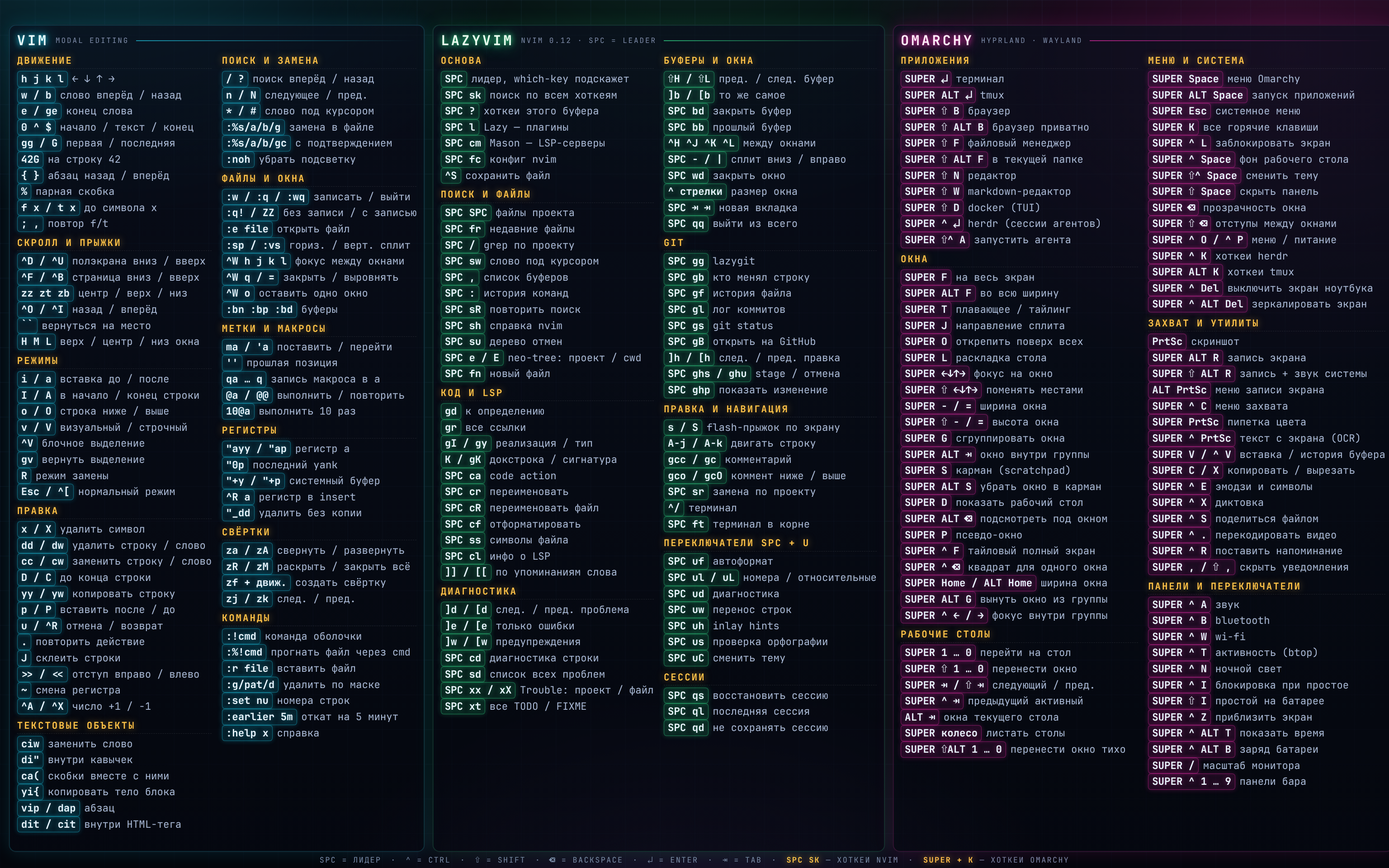
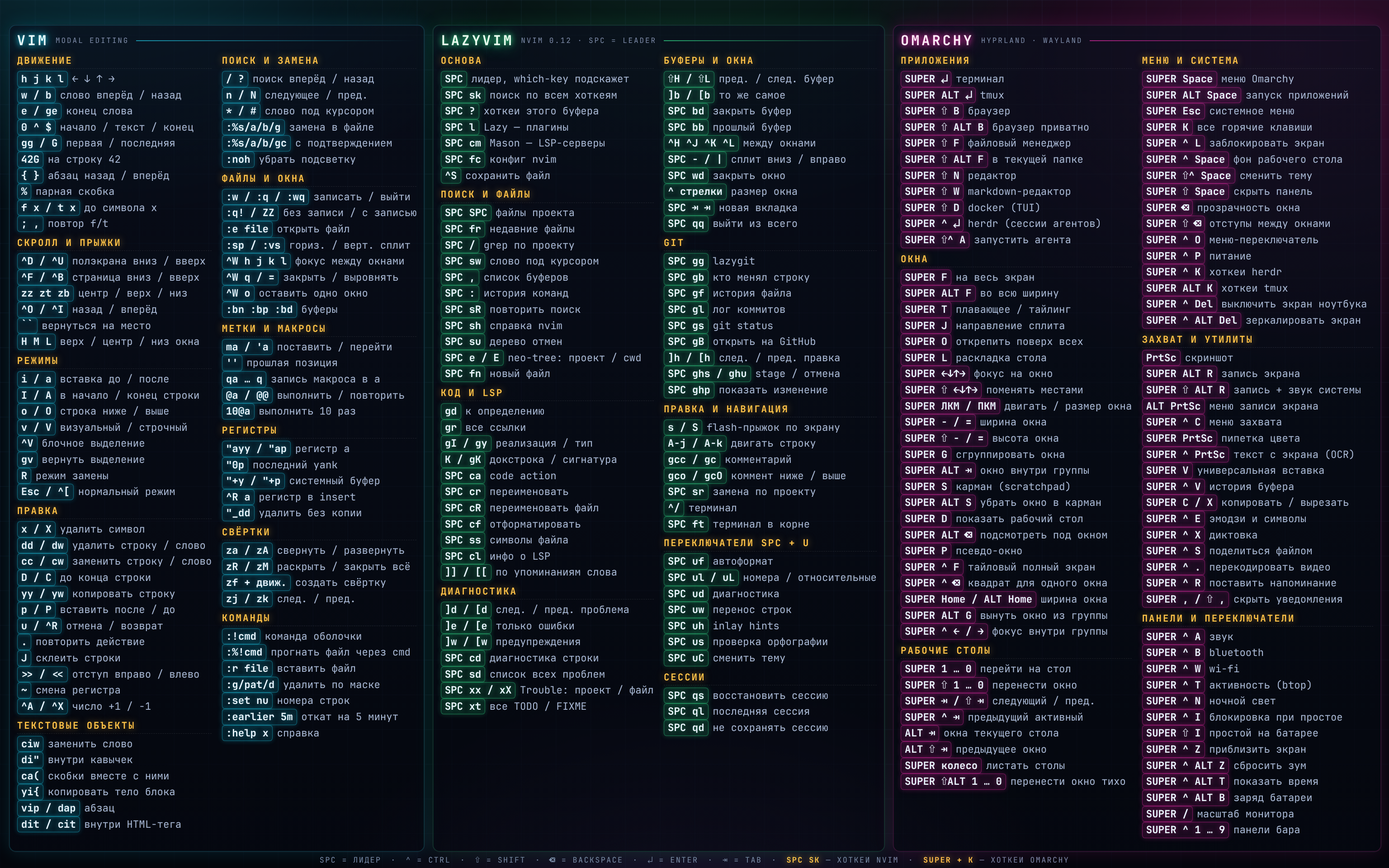
Add the mouse bindings and finish splitting the paired rows
"Перенести окно тихо" was already on the sheet, so the space went to the
gaps I found while re-checking against hyprctl binds:

- SUPER + drag with either mouse button moves and resizes a window. This was
  the largest omission on the sheet — a binding people reach for constantly
  and one that is invisible until someone tells you it exists.
- ALT+SHIFT+TAB. ALT+TAB was listed with no way back.
- SUPER+CTRL+ALT+Z resets the zoom that SUPER+CTRL+Z applies; half a pair is
  worse than neither half.

Also split the last two slash-combined rows, so the clipboard manager and the
power menu are findable by their own keys.

87 rows, which the README now records as the observed ceiling rather than the
earlier 78 — the real constraint is column height, so the note says to render
and look rather than trust a count.

Claude-Session: https://claude.ai/code/session_01QpofFwJW6hTbfjLHcKb433

Changed region(s): [[0.625, 0.0312, 1.0, 0.9688]]

diff --git a/wallpaper/vim-omarchy-neon.html b/wallpaper/vim-omarchy-neon.html
@@ -373,6 +373,7 @@
           <div class="row"><span class="k">SUPER L</span><span class="d">раскладка стола</span></div>
           <div class="row"><span class="k">SUPER ←↓↑→</span><span class="d">фокус на окно</span></div>
           <div class="row"><span class="k">SUPER ⇧ ←↓↑→</span><span class="d">поменять местами</span></div>
+          <div class="row"><span class="k">SUPER ЛКМ / ПКМ</span><span class="d">двигать / размер окна</span></div>
           <div class="row"><span class="k">SUPER − / =</span><span class="d">ширина окна</span></div>
           <div class="row"><span class="k">SUPER ⇧ − / =</span><span class="d">высота окна</span></div>
           <div class="row"><span class="k">SUPER G</span><span class="d">сгруппировать окна</span></div>
@@ -396,6 +397,7 @@
           <div class="row"><span class="k">SUPER ⇥ / ⇧ ⇥</span><span class="d">следующий / пред.</span></div>
           <div class="row"><span class="k">SUPER ^ ⇥</span><span class="d">предыдущий активный</span></div>
           <div class="row"><span class="k">ALT ⇥</span><span class="d">окна текущего стола</span></div>
+          <div class="row"><span class="k">ALT ⇧ ⇥</span><span class="d">предыдущее окно</span></div>
           <div class="row"><span class="k">SUPER колесо</span><span class="d">листать столы</span></div>
           <div class="row"><span class="k">SUPER ⇧ALT 1 … 0</span><span class="d">перенести окно тихо</span></div>
         </section>
@@ -412,7 +414,8 @@
           <div class="row"><span class="k">SUPER ⇧ Space</span><span class="d">скрыть панель</span></div>
           <div class="row"><span class="k">SUPER ⌫</span><span class="d">прозрачность окна</span></div>
           <div class="row"><span class="k">SUPER ⇧ ⌫</span><span class="d">отступы между окнами</span></div>
-          <div class="row"><span class="k">SUPER ^ O / ^ P</span><span class="d">меню / питание</span></div>
+          <div class="row"><span class="k">SUPER ^ O</span><span class="d">меню-переключатель</span></div>
+          <div class="row"><span class="k">SUPER ^ P</span><span class="d">питание</span></div>
           <div class="row"><span class="k">SUPER ^ K</span><span class="d">хоткеи herdr</span></div>
           <div class="row"><span class="k">SUPER ALT K</span><span class="d">хоткеи tmux</span></div>
           <div class="row"><span class="k">SUPER ^ Del</span><span class="d">выключить экран ноутбука</span></div>
@@ -428,7 +431,8 @@
           <div class="row"><span class="k">SUPER ^ C</span><span class="d">меню захвата</span></div>
           <div class="row"><span class="k">SUPER PrtSc</span><span class="d">пипетка цвета</span></div>
           <div class="row"><span class="k">SUPER ^ PrtSc</span><span class="d">текст с экрана (OCR)</span></div>
-          <div class="row"><span class="k">SUPER V / ^ V</span><span class="d">вставка / история буфера</span></div>
+          <div class="row"><span class="k">SUPER V</span><span class="d">универсальная вставка</span></div>
+          <div class="row"><span class="k">SUPER ^ V</span><span class="d">история буфера</span></div>
           <div class="row"><span class="k">SUPER C / X</span><span class="d">копировать / вырезать</span></div>
           <div class="row"><span class="k">SUPER ^ E</span><span class="d">эмодзи и символы</span></div>
           <div class="row"><span class="k">SUPER ^ X</span><span class="d">диктовка</span></div>
@@ -448,6 +452,7 @@
           <div class="row"><span class="k">SUPER ^ I</span><span class="d">блокировка при простое</span></div>
           <div class="row"><span class="k">SUPER ⇧ I</span><span class="d">простой на батарее</span></div>
           <div class="row"><span class="k">SUPER ^ Z</span><span class="d">приблизить экран</span></div>
+          <div class="row"><span class="k">SUPER ^ ALT Z</span><span class="d">сбросить зум</span></div>
           <div class="row"><span class="k">SUPER ^ ALT T</span><span class="d">показать время</span></div>
           <div class="row"><span class="k">SUPER ^ ALT B</span><span class="d">заряд батареи</span></div>
           <div class="row"><span class="k">SUPER /</span><span class="d">масштаб монитора</span></div>

diff --git a/wallpaper/README.md b/wallpaper/README.md
@@ -53,8 +53,10 @@ The page is `overflow:hidden` at a fixed 1920×1200 and `section{break-inside:av
 so the Omarchy card's two flowed columns cannot spill — content that does not fit is
 silently **clipped**, not scrolled. Two budgets, both found the hard way:
 
-- **~78 rows** across the card's six sections. At 88 the last section fell off the
-  bottom edge.
+- **~87 rows** across the card's six sections — that is the observed ceiling, with
+  the right column ending a hair above the card edge. 88 rows overflowed back when
+  the media section was still present; the true limit is height, not row count, so
+  re-render and look before trusting either number.
 - **38 characters** for key + description on one row. `.row` is `white-space:nowrap`,
   so a longer row widens its column past the card and gets cut at the right edge.
 
